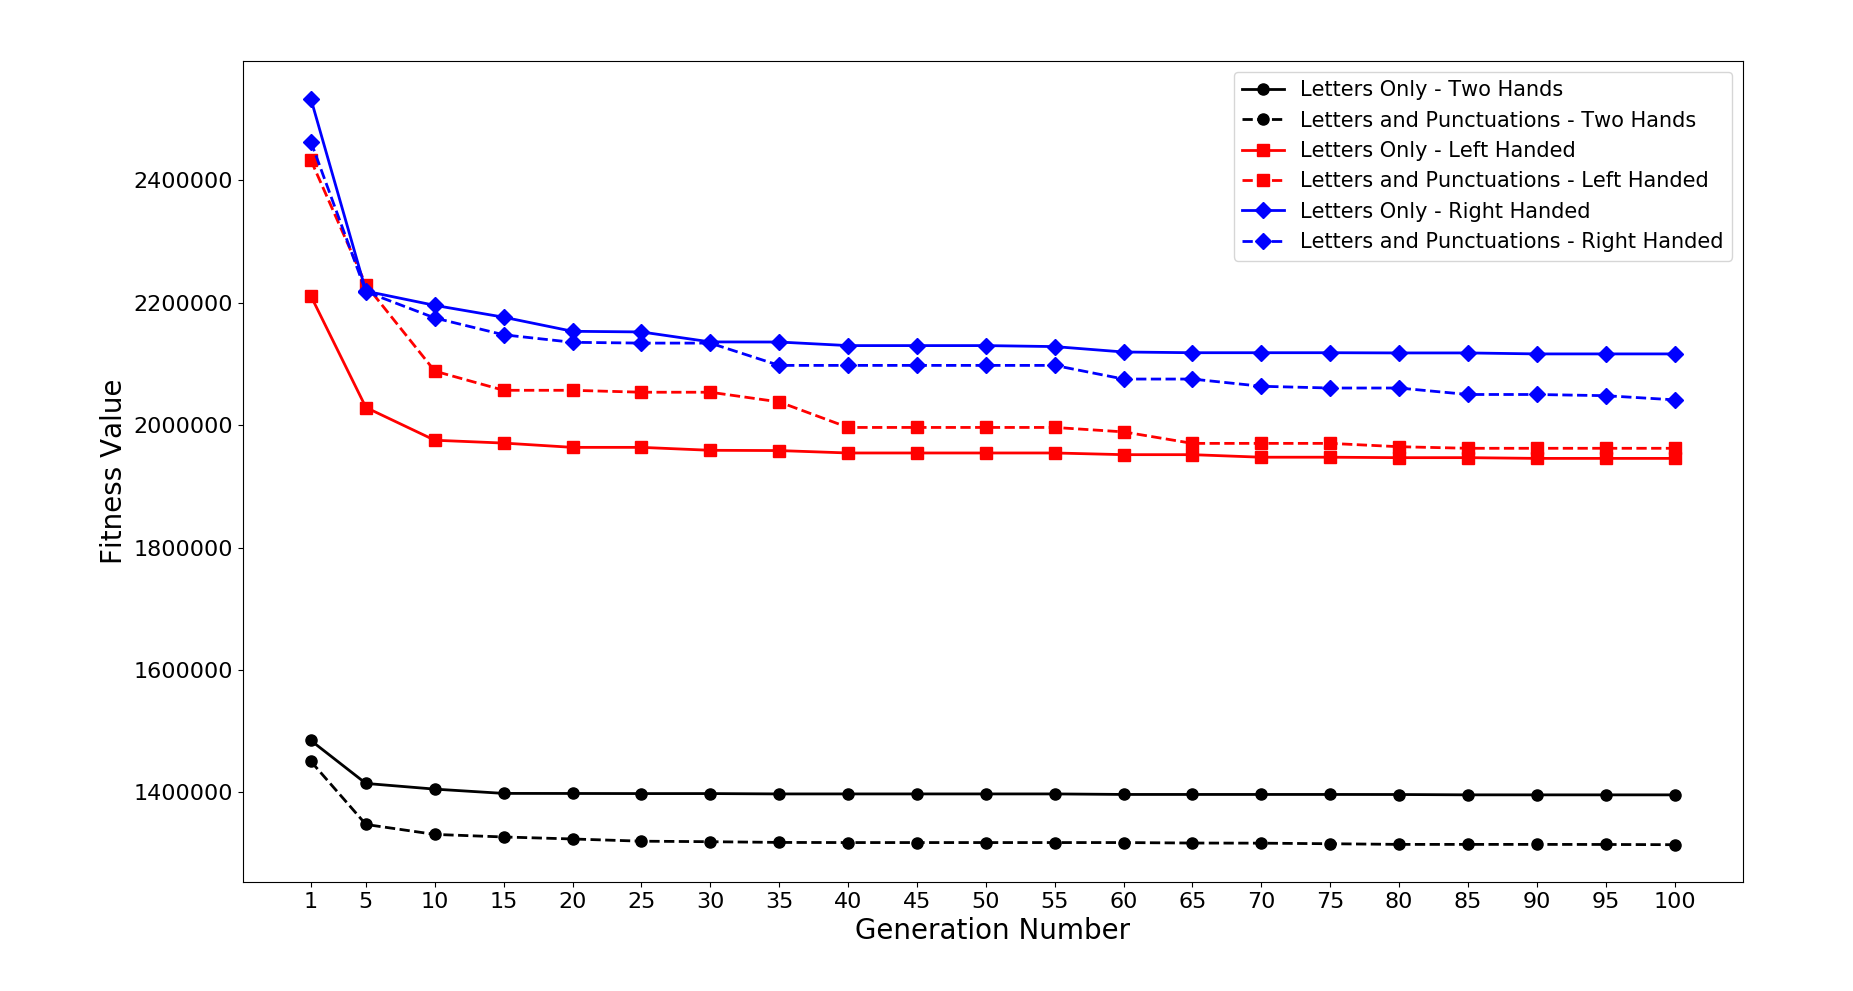
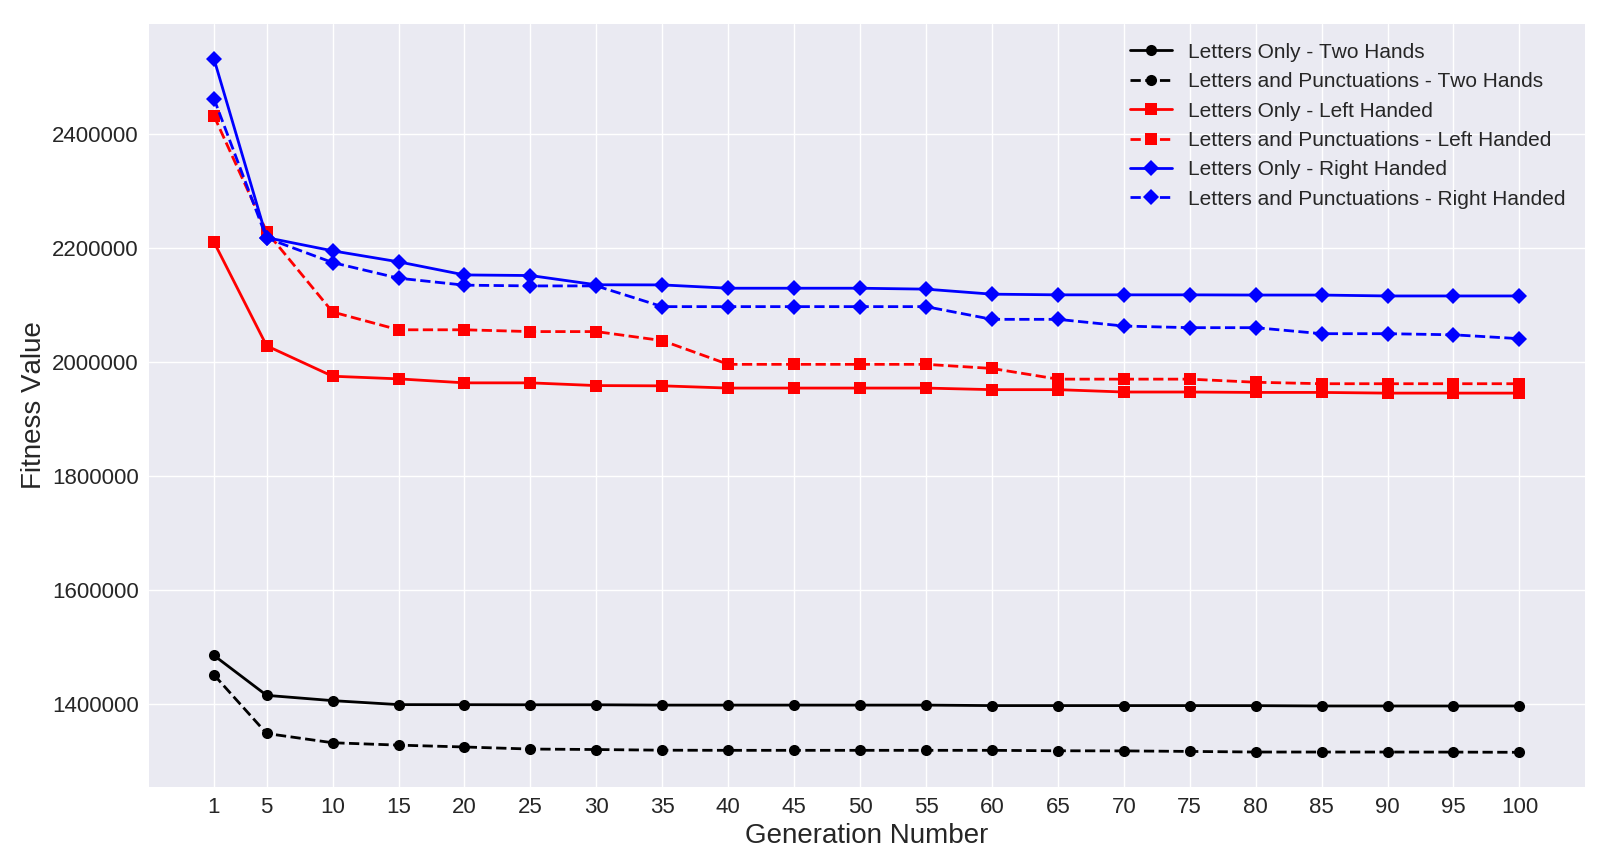
Update fitness plot

diff --git a/plot_fitness_value.py b/plot_fitness_value.py
@@ -1,5 +1,8 @@
 import matplotlib.pyplot as plt
 
+plt.style.use('seaborn') # pretty matplotlib plots
+plt.rcParams['figure.figsize'] = (12, 8)
+
 def fitness_values_extractor(logs_file_path):
     with open(logs_file_path, 'r') as file:
         lines = file.readlines()
